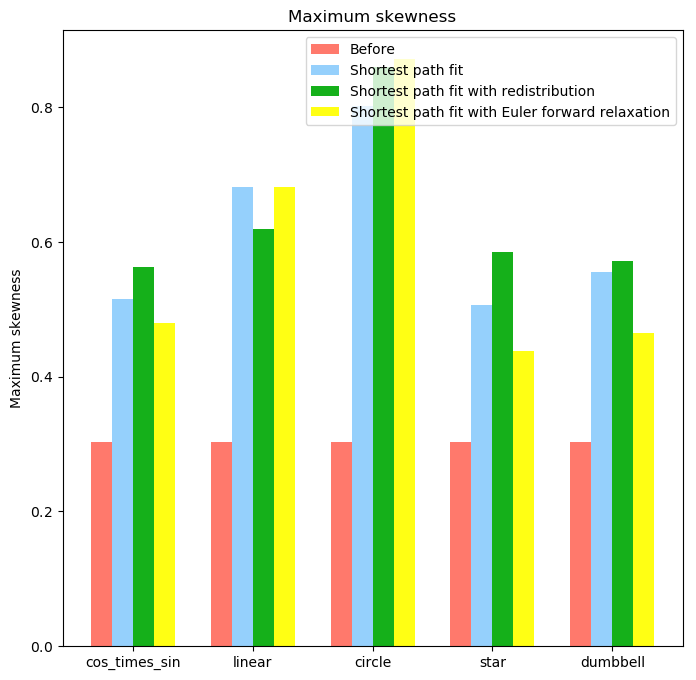
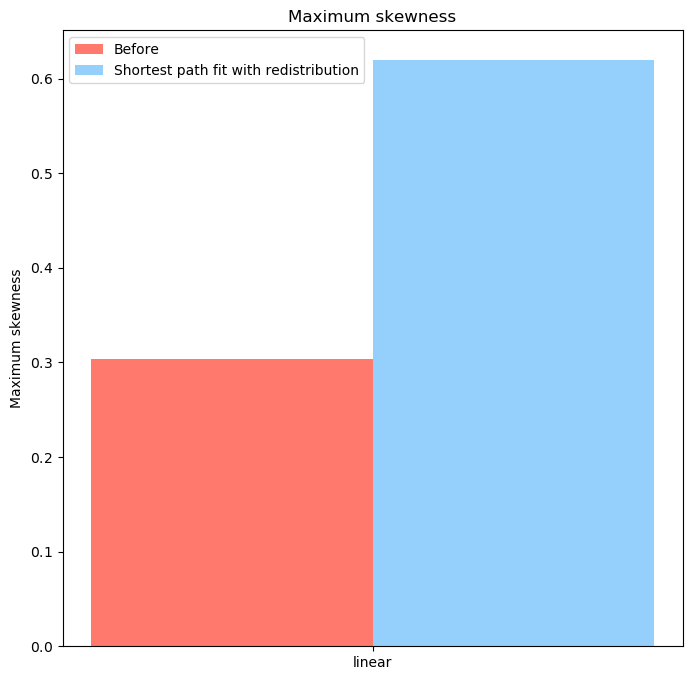
test runs

diff --git a/main_programv2.py b/main_programv2.py
@@ -252,21 +252,21 @@ def simplesol(z, thresh, qdata, relaxthresh, newtriang=False, flip=False, distpl
 
     if shortestpath:  # facitates the shortest path method with some additional plots
         (boundarytype, boundaryplist) = m.setupboundaryplist()
-        savename = qdata.methodname
-        savename.replace(" ", "_")
-        print('---Plotting 1')
-        m.plotzeroz(directory + 'After_setuppoints_' + mname + '_' + z.__name__ + '_adjmesh.png', dist=distplot,
-                    plotchosenboundary=True)
+        # savename = qdata.methodname
+        # savename.replace(" ", "_")
+        # print('---Plotting 1')
+        # m.plotzeroz(directory + 'After_setuppoints_' + mname + '_' + z.__name__ + '_adjmesh.png', dist=distplot,
+        #           plotchosenboundary=True)
         zeropathlist = m.findshortestpath(boundaryplist, boundarytype)
-        print('---Plotting 2')
-        m.plotzeroz(directory + 'After_shortestpath_' + mname + '_' + z.__name__ + '_adjmesh.png', dist=distplot)
+        # print('---Plotting 2')
+        # m.plotzeroz(directory + 'After_shortestpath_' + mname + '_' + z.__name__ + '_adjmesh.png', dist=distplot)
 
         m.movetolevelset(zeropathlist)
         if redistribute:
             m.redistribute_projectedpoints(zeropathlist, z)
         m.finallevelsetinfoupdate()
-        print('---Plotting 3')
-        m.plotzeroz(directory + 'After_movetolevelset_' + mname + '_' + z.__name__ + '_adjmesh.png', dist=False, mode=2)
+        # print('---Plotting 3')
+        # m.plotzeroz(directory + 'After_movetolevelset_' + mname + '_' + z.__name__ + '_adjmesh.png', dist=False, mode=2)
 
     if fixedpointrelaxation:  # facilitates a fixed-point iteration scheme for mesh relaxation (divergent)
         m.fixedpoint()
@@ -286,23 +286,23 @@ def simplesol(z, thresh, qdata, relaxthresh, newtriang=False, flip=False, distpl
     savename.replace(" ", "_")
     print('---Plotting 4')
     m.plotzeroz(directory + 'After_' + mname + '_' + z.__name__ + '_adjmesh.png', dist=distplot)
-    return
+    return m
 
 
-def simplemeshfit(thresh, methodname, hstep, relaxthresh, farr=[cos_times_sin, linear, circle, star, dumbbell],
+def simplemeshfit(thresh, methodname, hstep, relaxthresh, farr=[linear, circle, star, dumbbell],
                   newtriang=False, flip=False, distplot=False, simplepointrelax=False, simplegridtozeropoint=False,
                   redistribute=False):
     # This function creates the qualitycontainer for a specific hstep size and method and applies the method through the simplesol function for each test-function in farr
     print('hstep = ' + str(hstep))
     qdata = qualitycontainer(methodname, hstep)
-    for i in range(len(farr)):
-        qdata.fnames.append(farr[i].__name__)
-        print('Applying method <' + methodname + '> for function ' + farr[i].__name__)
-        simplesol(farr[i], thresh, qdata, relaxthresh, newtriang=newtriang, flip=flip, distplot=distplot,
-                  simplepointrelax=simplepointrelax, simplegridtozeropoint=simplegridtozeropoint,
-                  redistribute=redistribute)
+
+    qdata.fnames.append(farr[0].__name__)
+    print('Applying method <' + methodname + '> for function ' + farr[0].__name__)
+    mf = simplesol(farr[0], thresh, qdata, relaxthresh, newtriang=newtriang, flip=flip, distplot=distplot,
+                   simplepointrelax=simplepointrelax, simplegridtozeropoint=simplegridtozeropoint,
+                   redistribute=redistribute)
     qdata.save(hstep)
-    return
+    return mf
 
 
 ##########################################################################
@@ -321,30 +321,30 @@ allmethodnames = ['Cut method', 'Cut and flip method', 'Shortest path fit', 'Sho
 # methodstoapply = ['Cut method']
 # methodstoapply = ['Cut and flip method']
 # methodstoapply = ['Shortest path fit']
-# methodstoapply = ['Shortest path fit with redistribution']
+methodstoapply = ['Shortest path fit with redistribution']
 # methodstoapply = ['Shortest path fit with fixed-point relaxation']
 # methodstoapply = ['Shortest path fit with Euler forward relaxation']
 # methodstoapply = ['Cut method','Cut and flip method']
-methodstoapply = ['Shortest path fit', 'Shortest path fit with redistribution',
-                  'Shortest path fit with Euler forward relaxation']
+# methodstoapply = ['Shortest path fit', 'Shortest path fit with redistribution',
+                  #'Shortest path fit with Euler forward relaxation']
 # methodstoapply = allmethodnames
 
 
 # Choose the right set of sizes to apply from the list below
 
-sizestoapply = [1 / 8, 1 / 16]
-# sizestoapply = [1/8]
+# sizestoapply = [1 / 8, 1 / 16]
+sizestoapply = [1/8]
 # sizestoapply = [1/16]
 
 
 # Choose the right set of test functions to apply below
 
-farr = [cos_times_sin, linear, circle, star, dumbbell]
+# farr = [cos_times_sin, linear, circle, star, dumbbell]
 # farr = [cos_times_sin,linear,circle]
 # farr = [star,dumbbell]
 # farr = [cos_times_sin]
 # farr = [circle]
-# farr = [linear]
+farr = [linear]
 # farr = [linear, circle, star, dumbbell]
 
 

diff --git a/test.py b/test.py
@@ -1,0 +1,25 @@
+from main_programv2 import *
+
+m = mesh(hstep, hstep * 0.3)
+m.plot()
+
+hstep = 0.125
+farr = [circle]
+methodname = 'Shortest path fit with redistribution'
+newtriang = False
+flip = False
+simplepointrelax = False
+simplegridtozeropoint = False
+fixedpointrelaxation = False
+eulerrelaxation = False
+shortestpath = True
+distplot = True
+redistribute = True
+m_fit = simplemeshfit(0.3 * hstep, methodname, hstep, hstep / 100, farr, newtriang, flip, distplot, simplepointrelax,
+                      simplegridtozeropoint, redistribute)
+m_fit.plot()
+u_x_fit = []
+u_y_fit = []
+for i in range(len(m.points)):
+    u_x_fit.append(m.points[i].coordinates[0] - m_fit.points[i].coordinates[0])
+    u_y_fit.append(m.points[i].coordinates[1] - m_fit.points[i].coordinates[1])
